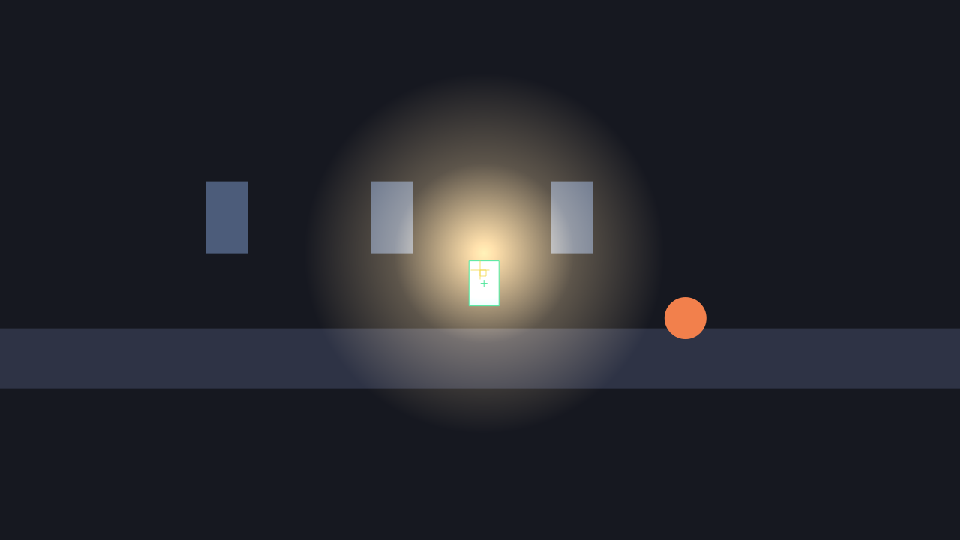
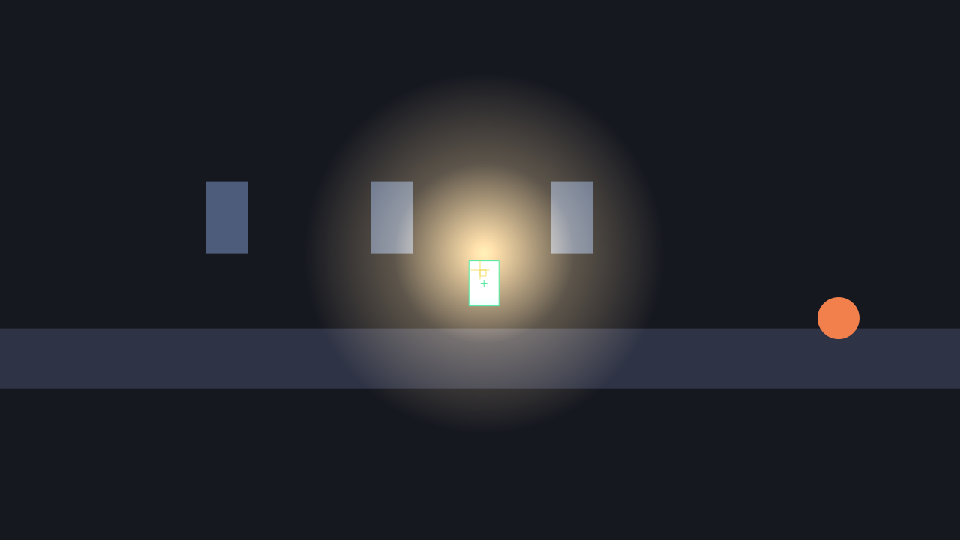
fix pan and box select, rgb alpha was broken, add mouse and api tests
- canvas: self._press.x() звалось как метод, а это float-поле, ломало панораму и рамку выделения
- mathx: rgb(r,g,b,a) делил и альфу на 255, rgb(255,0,0) был почти прозрачным
- mathx: vec.round() для снапа позиций
- tests: рамка выделения, панорама, перетаскивание, весь api векторов и цветов
- docs: rgb 0..255, методы со скобками, vec.round

Changed region(s): [[0.8438, 0.5333, 0.9062, 0.6222], [0.6875, 0.5333, 0.75, 0.6222]]

diff --git a/tests/run_editor_test.py b/tests/run_editor_test.py
@@ -4,6 +4,7 @@ import sys
 sys.path.insert(0, os.path.dirname(os.path.dirname(os.path.abspath(__file__))))
 os.environ.setdefault('QT_QPA_PLATFORM', 'offscreen')
 
+from PyQt6.QtCore import Qt
 from PyQt6.QtWidgets import QApplication
 
 from engine.mathx import Vec
@@ -121,6 +122,77 @@ flip.set_prop('flip_x', True)
 check('rect flip drawn', not win.canvas.grab().isNull())
 win.del_node(sprite)
 win.del_node(flip)
+
+# мышь: рамка выделения, панорама, перетаскивание
+class FakePoint:
+    def __init__(self, x, y):
+        self._x, self._y = x, y
+
+    def x(self):
+        return self._x
+
+    def y(self):
+        return self._y
+
+
+class FakeEvent:
+    def __init__(self, x, y, button=Qt.MouseButton.LeftButton):
+        self._p = FakePoint(x, y)
+        self._b = button
+
+    def position(self):
+        return self._p
+
+    def button(self):
+        return self._b
+
+
+class FakeKeyEvent:
+    def __init__(self, name):
+        self._name = name
+        self._text = name if len(name) == 1 else ''
+
+    def key(self):
+        from PyQt6.QtCore import Qt as Q
+        return Q.Key.Key_F if self._name == 'f' else Q.Key.Key_A
+
+    def text(self):
+        return self._text
+
+    def modifiers(self):
+        return Qt.KeyboardModifier.NoModifier
+
+
+LEFT = Qt.MouseButton.LeftButton
+c.pan = Vec(0, 0)
+c.zoom = 1.0
+c.sel = None
+c.mousePressEvent(FakeEvent(100, 100, LEFT))
+check('press starts box', c._mode, 'box')
+c.mouseMoveEvent(FakeEvent(500, 400, LEFT))
+check('box drag moved', c._box[1].x != c._box[0].x, True)
+c.mouseReleaseEvent(FakeEvent(500, 400, LEFT))
+check('box released', c._mode, None)
+c._space = True
+c.mousePressEvent(FakeEvent(200, 200, LEFT))
+c.mouseMoveEvent(FakeEvent(300, 260, LEFT))
+check('pan moved', (c.pan.x, c.pan.y), (-100.0, -60.0))
+c.mouseReleaseEvent(FakeEvent(300, 260, LEFT))
+c._space = False
+c.snap = False
+sel_node = win.scene.find('ball')
+x0 = sel_node.wpos().x
+c.sel = sel_node
+scr = c.to_screen(x0, sel_node.wpos().y)
+c.mousePressEvent(FakeEvent(scr.x, scr.y, LEFT))
+check('press grabs node', c._mode, 'drag')
+c.mouseMoveEvent(FakeEvent(scr.x + 40, scr.y, LEFT))
+check('drag moved node', sel_node.wpos().x - x0, 40.0)
+c.mouseReleaseEvent(FakeEvent(scr.x + 40, scr.y, LEFT))
+check('drag released', c._mode, None)
+c.snap = True
+c.keyPressEvent(FakeKeyEvent('f'))
+check('frame node keeps zoom', c.zoom > 0)
 
 # сохранение и загрузка
 path = win.save()

diff --git a/tests/run_tests.py b/tests/run_tests.py
@@ -102,7 +102,7 @@ check('coalesce', e.get('g'), 42)
 check('pipe clamp', e.get('h'), 3)
 check('list index', e.get('lst')[2], 3)
 check('dict get', e.get('d')['hp'], 10)
-check('color', rgb(255, 0, 0).to_hex(), '#ff000001')
+check('color', rgb(255, 0, 0).to_hex(), '#ff0000ff')
 check('range obj', list(Range(0, 5, 2)), [0, 2, 4])
 
 e3 = run('''
@@ -283,6 +283,42 @@ for i in range(10):
 check('errors reported, no crash', len(gx.errors) >= 5, True)
 check('all five reported', len({e[0] for e in gx.errors}), 5)
 check('game still stepping', gx.frame, 10)
+
+print('script api')
+e4 = run('''
+let a = v2(3, 4)
+let b = v2(1, 0)
+let ops = {}
+ops.len = a.len()
+ops.len2 = a.len2()
+ops.angle = round(a.angle())
+ops.normed = a.normed().x |> round(3)
+ops.rot = a.rot(90).round().x
+ops.dist = a.dist_to(b)
+ops.to = a.to(b, 0.5).x
+ops.sum = (a + b).x
+ops.mul = (a * 2).x
+ops.div = (a / 2).x
+ops.neg = (-a).x
+ops.dot = a.dot(b)
+ops.cross = a.cross(b)
+let c = rgb(10, 20, 30)
+ops.hex = c.to_hex()
+ops.alpha = c.with_alpha(0.5).a
+ops.mix = c.mix(rgb(20, 40, 60), 0.5).r |> round(4)
+let s = "привет"
+ops.upper_len = len(s)
+ops.range_len = len(0..5)
+ops.items = count([1, 2, 3], 2)
+''')
+expect = {'len': 5.0, 'len2': 25.0, 'angle': 53.0, 'normed': 0.6, 'rot': -4.0, 'dist': 4.472,
+          'to': 2.0, 'sum': 4.0, 'mul': 6.0, 'div': 1.5, 'neg': -3.0, 'dot': 3.0, 'cross': -4.0,
+          'hex': '#0a141eff', 'alpha': 0.5, 'mix': 0.0588, 'upper_len': 6, 'range_len': 5, 'items': 1}
+ops = e4.get('ops')
+for k, want in expect.items():
+    got = ops[k]
+    ok = abs(got - want) < 0.001 if isinstance(got, float) else got == want
+    check('api %s' % k, ok, True)
 
 print()
 if fails:

diff --git a/engine/mathx.py b/engine/mathx.py
@@ -62,6 +62,10 @@ class Vec:
     def angle_to(self, o):
         return math.degrees(math.atan2(o.y - self.y, o.x - self.x))
 
+    def round(self, digits=0):
+        m = 10.0 ** digits
+        return Vec(round(self.x * m) / m, round(self.y * m) / m)
+
     def to(self, o, t):
         return Vec(self.x + (o.x - self.x) * t, self.y + (o.y - self.y) * t)
 
@@ -164,12 +168,11 @@ class Color:
         return 'rgb%s' % ([int(round(c * 255)) for c in self.to_list()],)
 
 
-def rgb(r, g=None, b=None, a=1.0):
+def rgb(r, g=None, b=None, a=255):
+    # все четыре числа 0..255, один аргумент это 0xRRGGBB
     if g is None:
         n = int(r)
         return Color(((n >> 16) & 255) / 255.0, ((n >> 8) & 255) / 255.0, (n & 255) / 255.0, 1.0)
-    if a is None:
-        a = 1.0
     return Color(r / 255.0, g / 255.0, b / 255.0, a / 255.0)
 
 

diff --git a/editor/canvas.py b/editor/canvas.py
@@ -277,8 +277,8 @@ class Canvas(QWidget):
             self.game().input.mouse_move(pos.x(), pos.y())
             return
         if self._mode == 'pan':
-            dx = (pos.x() - self._press.x()) / self.zoom
-            dy = (pos.y() - self._press.y()) / self.zoom
+            dx = (pos.x() - self._press.x) / self.zoom
+            dy = (pos.y() - self._press.y) / self.zoom
             self.pan = self.pan - Vec(dx, dy)
             self._press = Vec(pos.x(), pos.y())
             self.update()
@@ -293,7 +293,7 @@ class Canvas(QWidget):
             self.update()
             return
         if self._mode == 'box':
-            self._box = (self.to_world(self._press.x(), self._press.y()), w)
+            self._box = (self.to_world(self._press.x, self._press.y), w)
             self.update()
             return
         self.update()

diff --git a/docs/lightscript.md b/docs/lightscript.md
@@ -130,7 +130,7 @@ repeat -1:               # бесконечный цикл
 
 ```lightscript
 let v = v2(10, 20)               # вектор, есть ещё vec2()
-let c = rgb(255, 120, 60)        # цвет, есть color()
+let c = rgb(255, 120, 60)        # цвет, есть color(), числа 0..255
 let c2 = rgb(0xff8040)           # цвет из числа
 let s = "строка"
 let s2 = """
@@ -145,16 +145,22 @@ let r = 0..10
 вектор:
 
 ```lightscript
-v.len() v.len2() v.normed() v.angle() v.rot(45)
-v.dist_to(other) v.to(other, 0.5) v.dot(other) v.x v.y
+v.len() v.len2() v.normed() v.angle() v.rot(45) v.round()
+v.dist_to(other) v.to(other, 0.5) v.dot(other) v.cross(other)
 v + w   v - w   v * 2   v / 2   -v
+v.x    v.y
 ```
 
 цвет:
 
 ```lightscript
 c.mix(other, 0.5) c.with_alpha(0.5) c.to_hex() c * 0.5
+c.r   c.g   c.b   c.a
 ```
+
+у объектов движка поля читаются без скобок, а методы вызываются: `self.pos`,
+`self.pos.x`, но `self.find("body")`. если имя совпадает с полем и с методом,
+побеждает поле.
 
 ## self
 
